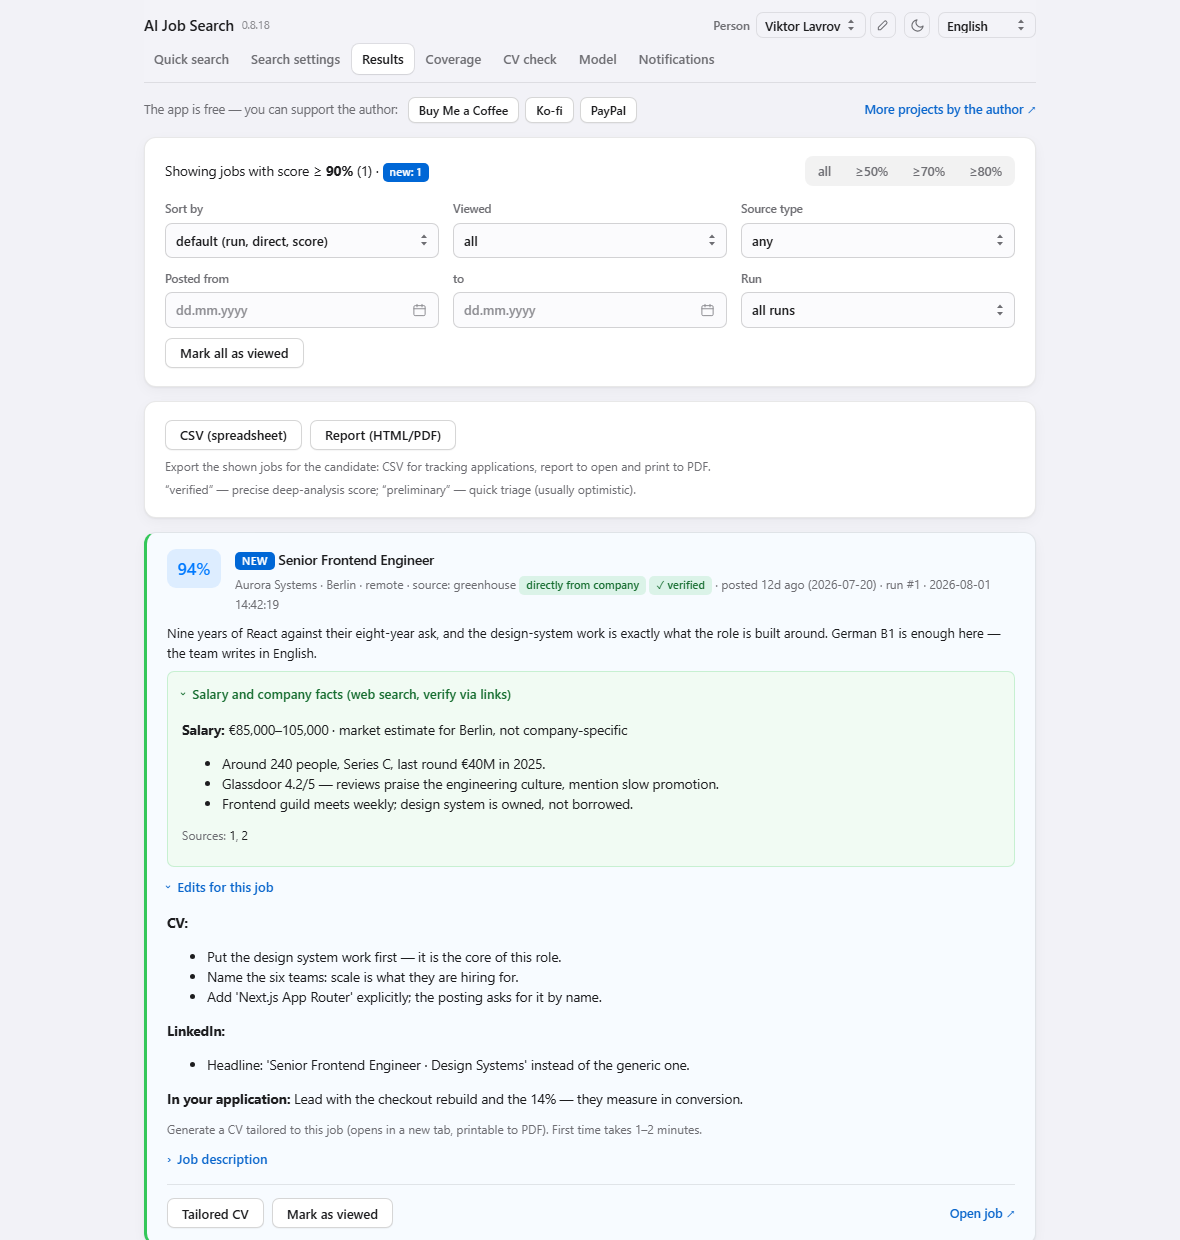
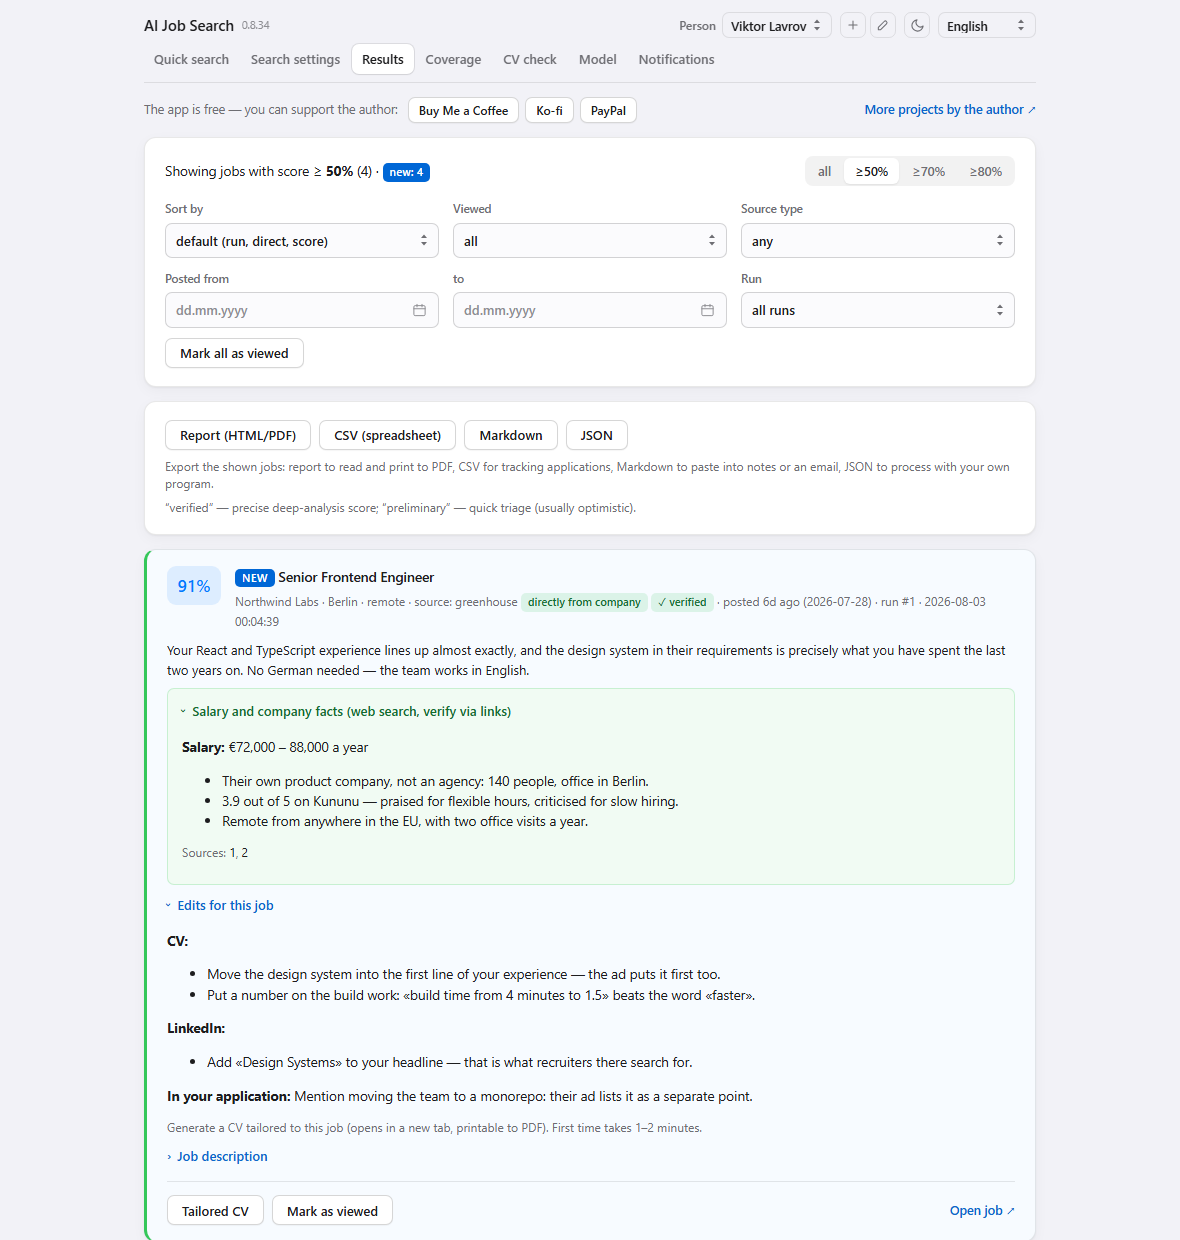
AI Job Search: screenshots for 0.8.34
They had drifted a long way: the shots on the page were from 0.8.18, showing
four ways of powering the search out of the eight there are now, and an export
row with two buttons instead of four. The Model shot alone was missing half the
page.

Heights change with them — the pictures declare their size here so the page does
not jump while they load.

The alt text on the first shot described a card that is no longer in it: the
salary-and-company block only opens after deep analysis, and the list shot is
deliberately taken before that. It now describes what is actually there.

diff --git a/products/ai-job-search/index.html b/products/ai-job-search/index.html
@@ -97,9 +97,9 @@
 
         <figure class="hero-shot">
           <a class="shot" href="assets/results-light.png" target="_blank" rel="noopener" title="Open full size">
-            <img class="shot-light" src="assets/results-light.png" width="1180" height="860"
-                 alt="The Results page: filters for sort order, viewed state, source and posting date, then job cards. The first card scores 88%, is marked new, verified and straight from the company, and carries a paragraph explaining the fit and a block of salary and company facts." />
-            <img class="shot-dark" src="assets/results-dark.png" width="1180" height="860"
+            <img class="shot-light" src="assets/results-light.png" width="1180" height="1120"
+                 alt="The Results page: filters for sort order, viewed state, source and posting date, then buttons to export the list as a report, a spreadsheet, Markdown or JSON, and then the job cards. The first card scores 91%, is marked new, verified and straight from the company, and carries a paragraph explaining the fit." />
+            <img class="shot-dark" src="assets/results-dark.png" width="1180" height="1120"
                  alt="The Results page with filters and job cards, shown in the app's dark theme." />
           </a>
           <figcaption>Every posting scored against your CV, with the reason written out. Screens here use a made-up profile — the people, companies and jobs in them do not exist.</figcaption>
@@ -216,9 +216,9 @@
 
       <figure>
         <a class="shot" href="assets/start-light.png" target="_blank" rel="noopener" title="Open full size">
-          <img class="shot-light" src="assets/start-light.png" width="1180" height="860" loading="lazy" decoding="async"
+          <img class="shot-light" src="assets/start-light.png" width="1180" height="820" loading="lazy" decoding="async"
                alt="The Quick search page: a field for who the search is for, one for countries and cities, a file picker for the CV, an optional LinkedIn address, and a Start searching button." />
-          <img class="shot-dark" src="assets/start-dark.png" width="1180" height="860" loading="lazy" decoding="async"
+          <img class="shot-dark" src="assets/start-dark.png" width="1180" height="820" loading="lazy" decoding="async"
                alt="The Quick search page with its three fields and the Start searching button, in the app's dark theme." />
         </a>
         <figcaption>Everything needed to start. The rest of the settings are there when you want them, on their own page.</figcaption>
@@ -256,9 +256,9 @@
 
       <figure>
         <a class="shot" href="assets/model-light.png" target="_blank" rel="noopener" title="Open full size">
-          <img class="shot-light" src="assets/model-light.png" width="1180" height="860" loading="lazy" decoding="async"
+          <img class="shot-light" src="assets/model-light.png" width="1180" height="1330" loading="lazy" decoding="async"
                alt="The Model page: a card for each way of powering the search — Claude Code, Cursor, Codex, GitHub Copilot, Goose, Qwen Code, a local model through Ollama and an address of your own — each marked installed or not and whether it can search the web, with Download and Select buttons. Below them, a line stating the machine's processor and how much memory a model may use." />
-          <img class="shot-dark" src="assets/model-dark.png" width="1180" height="860" loading="lazy" decoding="async"
+          <img class="shot-dark" src="assets/model-dark.png" width="1180" height="1330" loading="lazy" decoding="async"
                alt="The Model page with the provider cards and the device's memory, in the app's dark theme." />
         </a>
         <figcaption>The app says which of these it can already see, and how much memory your machine has to spare.</figcaption>
